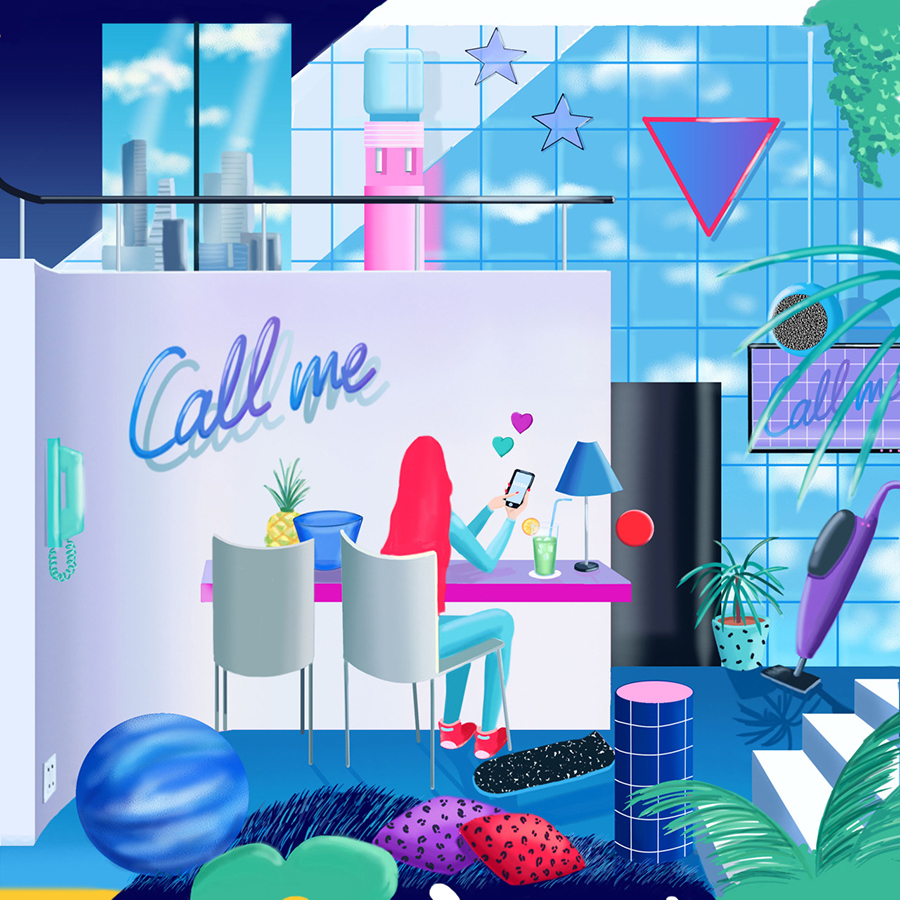
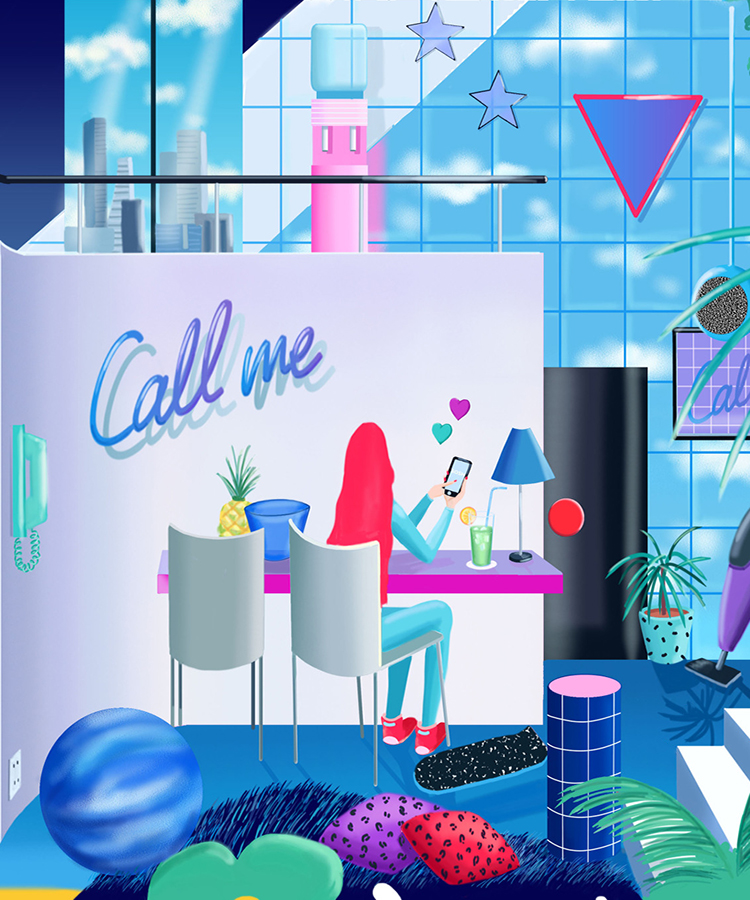
updated room 4 sizing

diff --git a/src/components/game_play/rooms/room4/Room4.css b/src/components/game_play/rooms/room4/Room4.css
@@ -9,8 +9,8 @@
   position: absolute;
   bottom: 0px;
   right: 0px;
-  width: 250px;
-  height: 160px;
+  width: 200px;
+  height: 170px;
   /* border: 6px solid purple; */
 }
 
@@ -66,7 +66,8 @@
   width: 60px;
   height: 140px;
   bottom: 330px;
-  left: 390px;
+  left: 330px;
+   /* border: 6px solid purple; */
 }
 
 .jessicas_message {
@@ -75,23 +76,25 @@
   bottom: 510px;
   left: 500px;
   width: 200px;
-    background-color:white;
+  background-color:white;
 }
 
 #knees {
   position: absolute;
   bottom: 240px;
-  left: 430px;
+  left: 380px;
   width: 80px;
   height: 60px;
+  /* border: 6px solid purple; */
 }
 
 #cell_phone {
   position: absolute;
-  bottom: 370px;
-  left: 490px;
+  bottom: 390px;
+  left: 430px;
   width: 40px;
   height: 60px;
+  /* border: 6px solid purple; */
 }
 
 /* --------------------------------- PLANT ---------------------------------- */
@@ -99,16 +102,17 @@
 #plant {
   position: absolute;
   bottom: 230px;
-  right: 120px;
+  right: 42px;
   width: 80px;
   height: 140px;
+  /* border: 6px solid purple; */
 }
 
 /* --------------------------------- PHONE ---------------------------------- */
 #room4phone {
   position: absolute;
-  top: 435px;
-  left: 30px;
+  top: 421px;
+  left: 0px;
   width: 60px;
   height: 140px;
   /* border: 6px solid green; */
@@ -127,7 +131,6 @@
 
 #room4crumpled_note{
   position: absolute;
-  top: 700px;
-  left: 750px;
-  /* border: 6px solid green; */
+  top: 702px;
+  left: 683px;
 }

diff --git a/src/components/game_play/rooms/room4/phone_number.js b/src/components/game_play/rooms/room4/phone_number.js
@@ -49,8 +49,8 @@ class PhoneNumber extends Component {
 
     handleMouseUp = () => {
       this.setState({clicked: false});
-      if(this.state.x > 633 && this.state.x < 683 &&
-        this.state.y > 0 && this.state.y < 64) {
+      if(this.state.x > 730 && this.state.x < 774 &&
+        this.state.y > 0 && this.state.y < 150) {
         this.putNoteInPurse()
       }
     }
@@ -62,6 +62,8 @@ class PhoneNumber extends Component {
 
 
   render() {
+    // console.log("x",this.state.x)
+    // console.log("y",this.state.y)
     return (
       <div
         id="phone_number"

diff --git a/src/reducer.js b/src/reducer.js
@@ -1,5 +1,5 @@
 const defaultState = {
-  currentRoom: 1,
+  currentRoom: 4,
   isPurseOpened: false,
   showPhone: false,
   findCrumpledNote: false,
